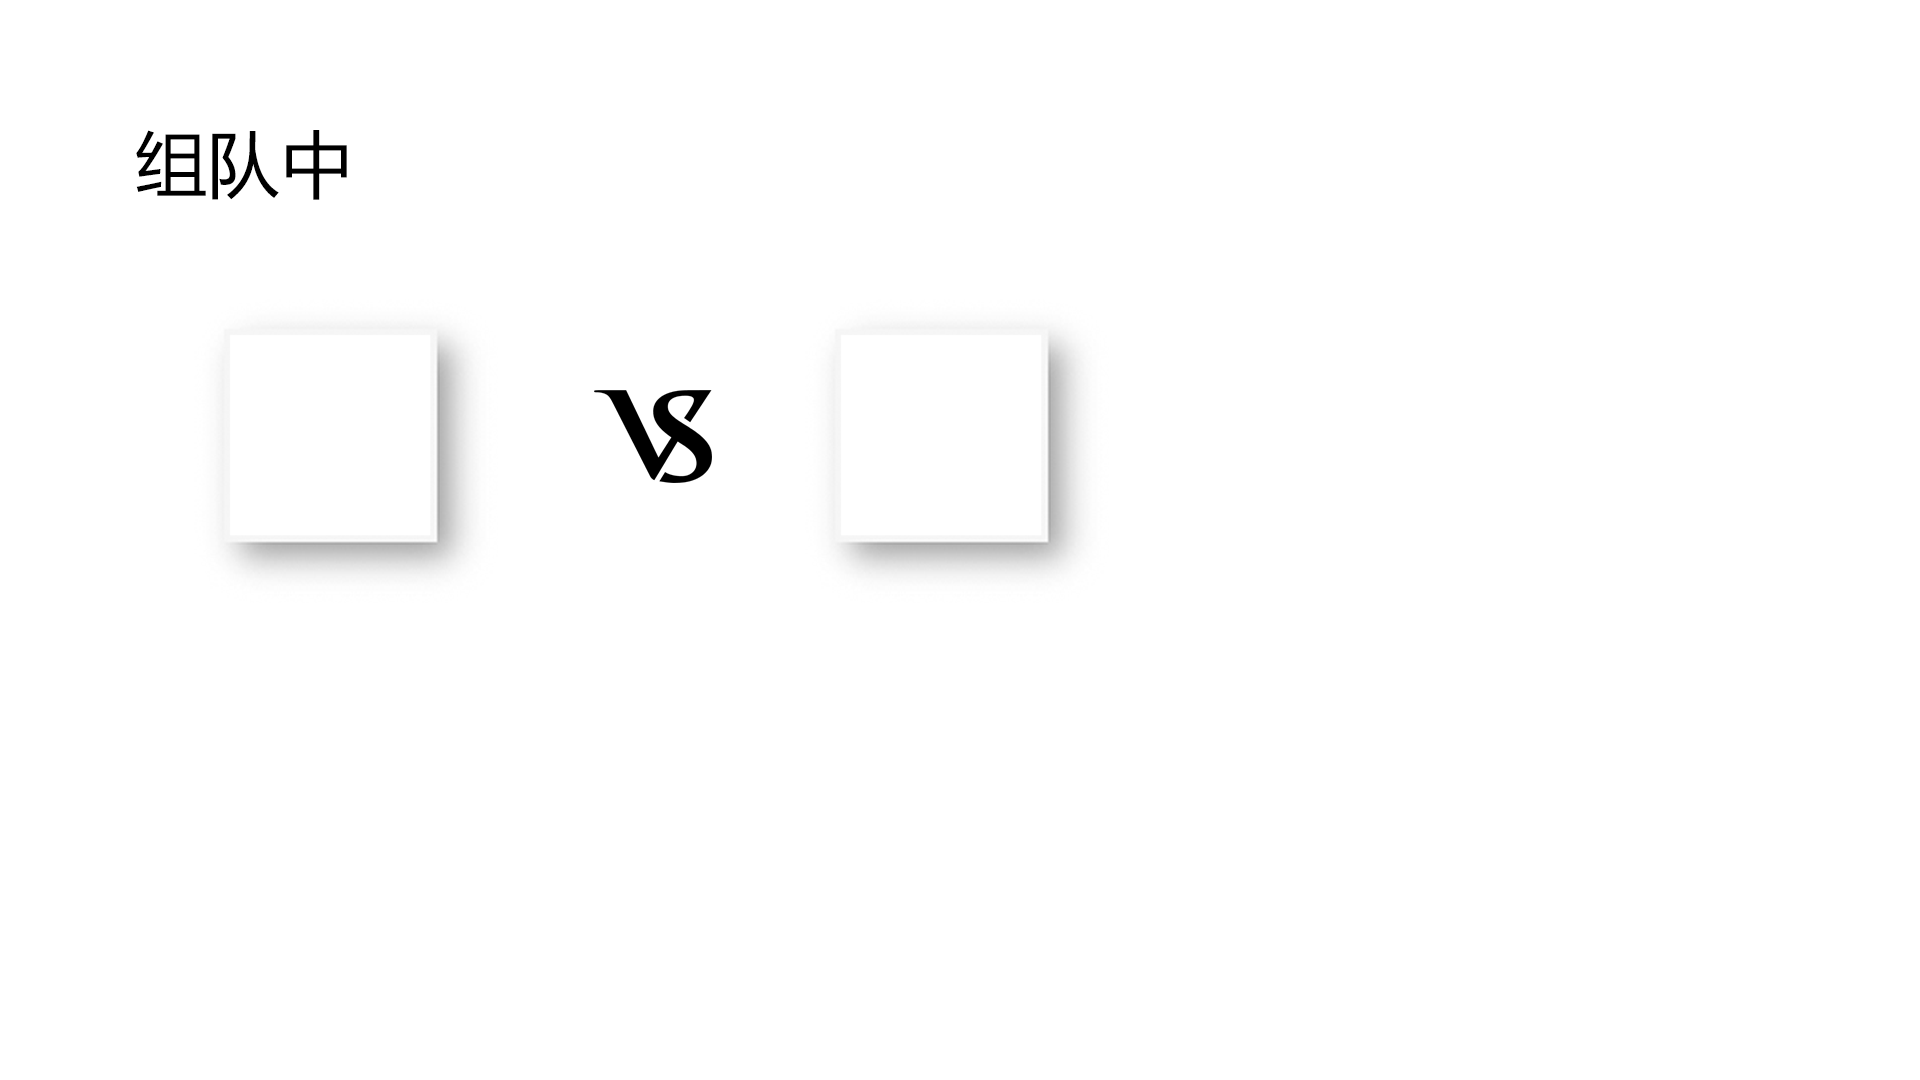
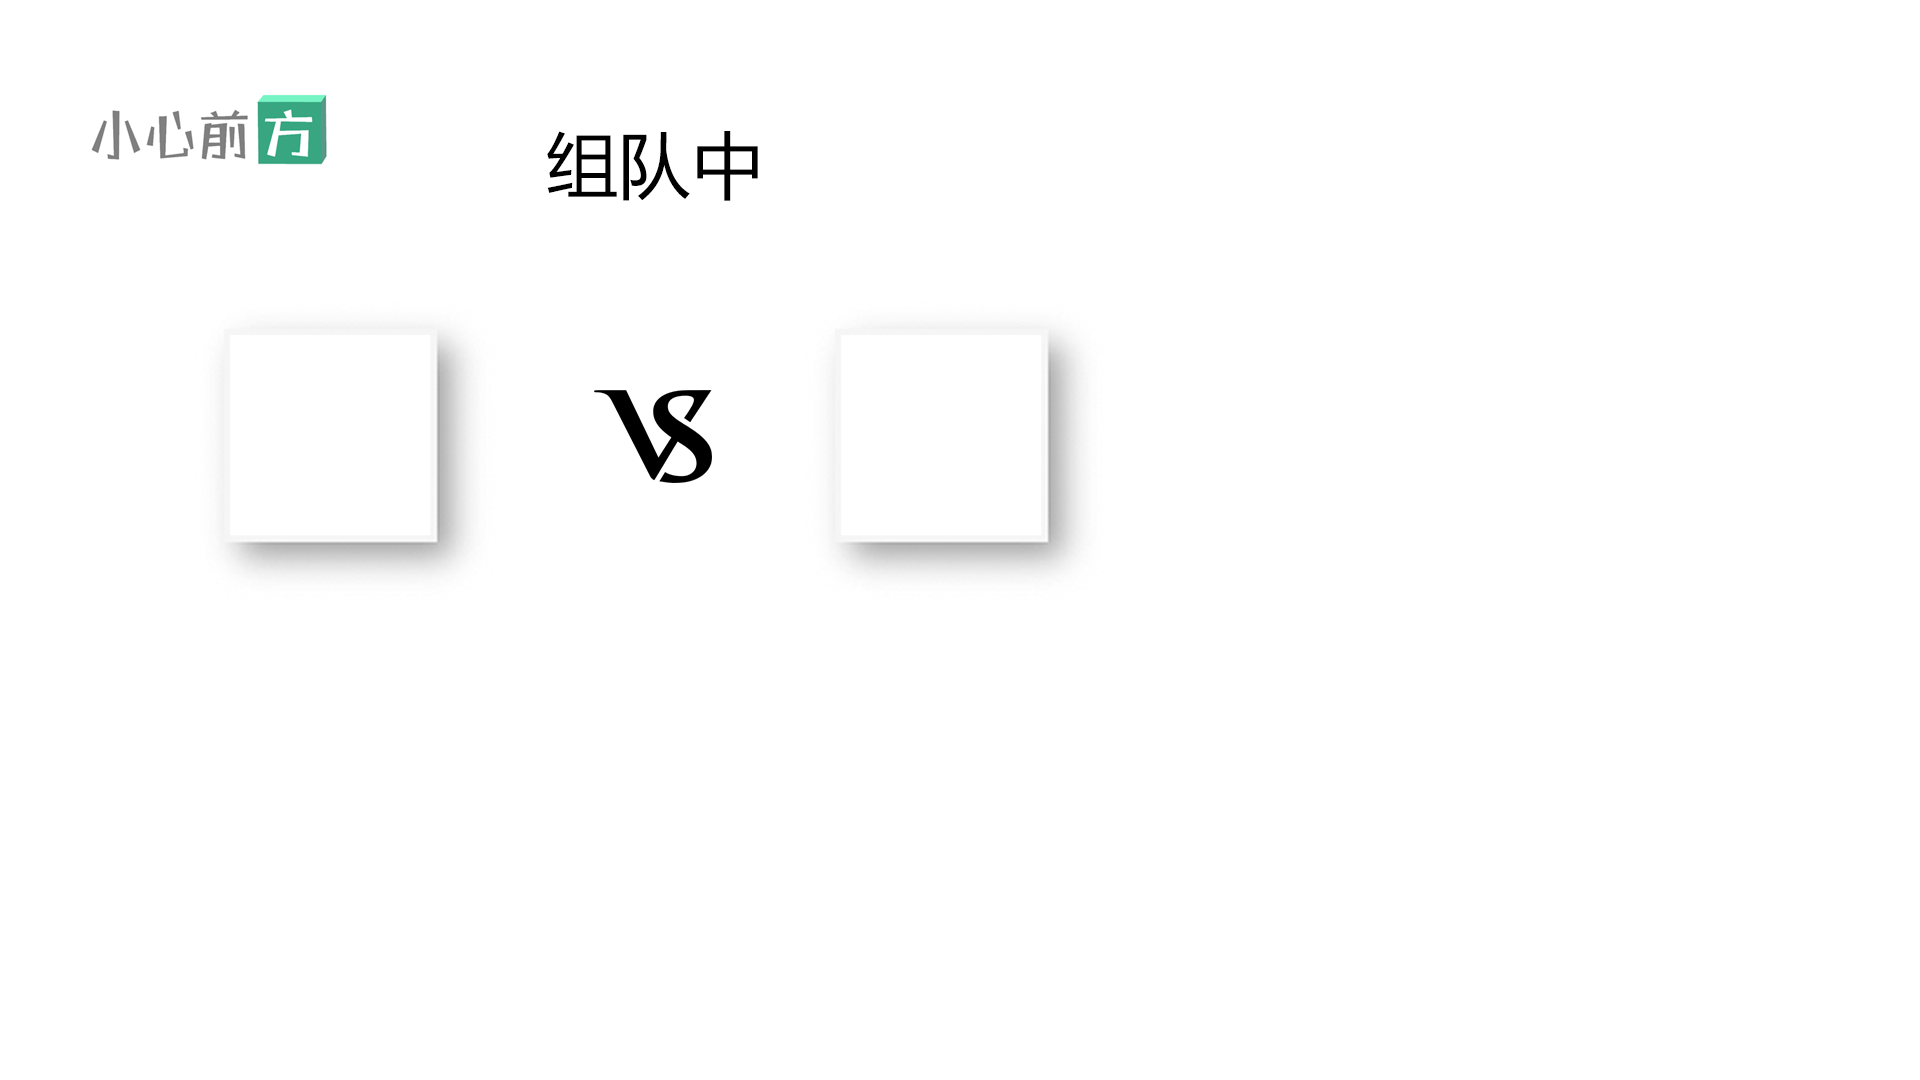
modify README

Changed region(s): [[0.0312, 0.0917, 0.1875, 0.1833], [0.2812, 0.1222, 0.4062, 0.1833]]

diff --git a/README.md b/README.md
@@ -1,10 +1,15 @@
 # “小心前方”微信小游戏文档
 
-![bgstart](pic/bgstart.png)
+![logo](pic/logo.png)
 
 GitHub链接：https://github.com/CyrilKZ/FunnyGame
 
 二维码：
+
+## 游戏亮点
+- 双人对战模式的可玩性与社交性
+- 开放式的游戏玩法与策略
+- 3D模型、场景和动画效果
 
 ## 游戏策划与功能
 ### 核心玩法
@@ -25,34 +30,44 @@ GitHub链接：https://github.com/CyrilKZ/FunnyGame
 #### 魔力值
 
 
-### 游戏界面
+### 界面设计
 游戏界面由首页、排行榜、帮助页面、组队界面、游戏主界面和结算界面组成。
 
-首页
+![startbg](pic/bgstart.png)
 
 
+首页由游戏Logo和3个主要按钮组成，点击“开始游戏”按钮进入组队界面后，玩家可通过微信转发接口将邀请组队信息发送给好友，此时位于画面右侧的正是本局游戏将要使用的赛道。
+
+![game_design](pic/team.jpg)
+
+在双方都选择准备后，游戏的主镜头将切入赛道上方，并缓缓下降到游戏主界面的视角，主要的游戏场景将基于这个界面展开，两个玩家操控两个方块展开竞争，或躲避或跳跃前方的障碍物，其中一个方块一旦碰上障碍物，另一方就自动获胜
+
+![game_design](pic/game_main.jpg)
+
+除此之外，排行榜界面利用微信开放数据域接口，展示了好友积分排行榜，进一步
+
+![ranklist](pic/ranklist.jpg)
 
 
+## 游戏效果与优化
+e.g. 3D效果的渲染、沉浸式的动画特效等
 
-## 代码架构
+e.g. 解决网络延迟过大、网络socket断线重连等
+
+## 技术实现
 ### 前端
 
 
 ### 后端
 
 
-## 游戏效果
-e.g. 3D效果的渲染、沉浸式的动画特效等
-
-## 游戏优化与效率
-e.g. 解决网络延迟过大、网络socket断线重连等
 
 ## 外部库引用
 ### Three.js
 
 
 ### express + ws
-express和ws是搭建后端服务器使用的主要第三方库，
+express和ws是搭建后端服务器使用的主要第三方库，其中express
 
 
 ## 分工情况
